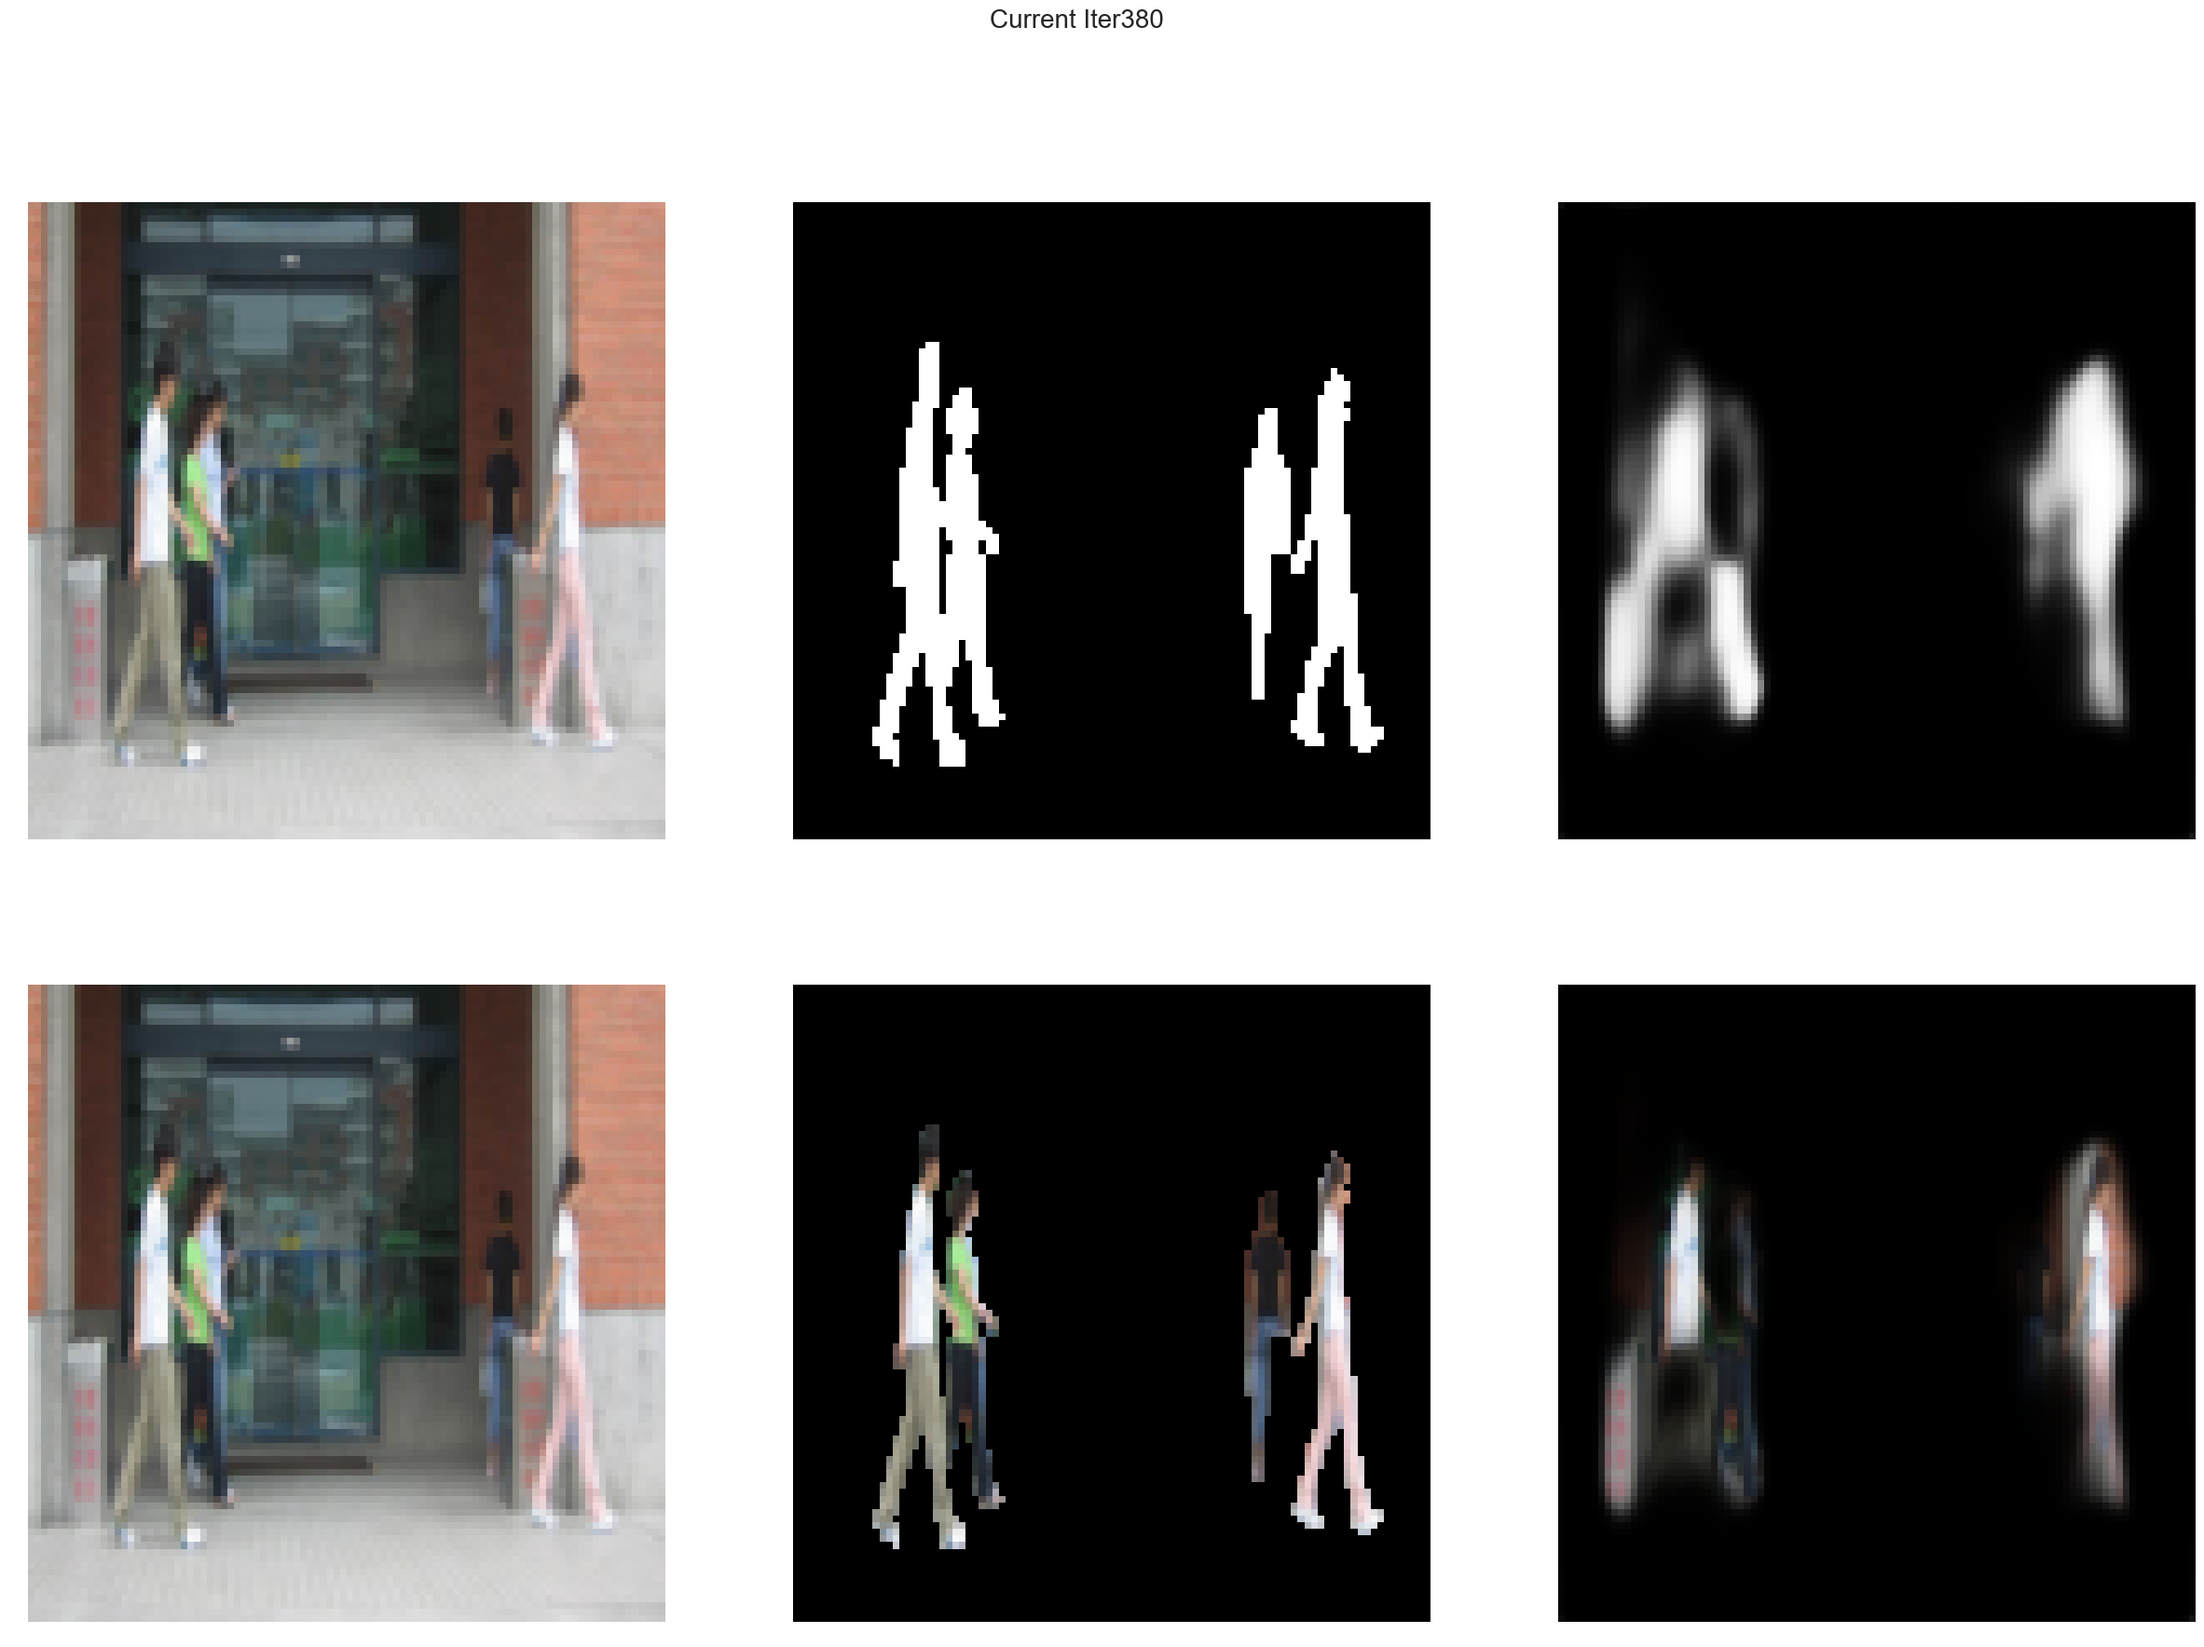
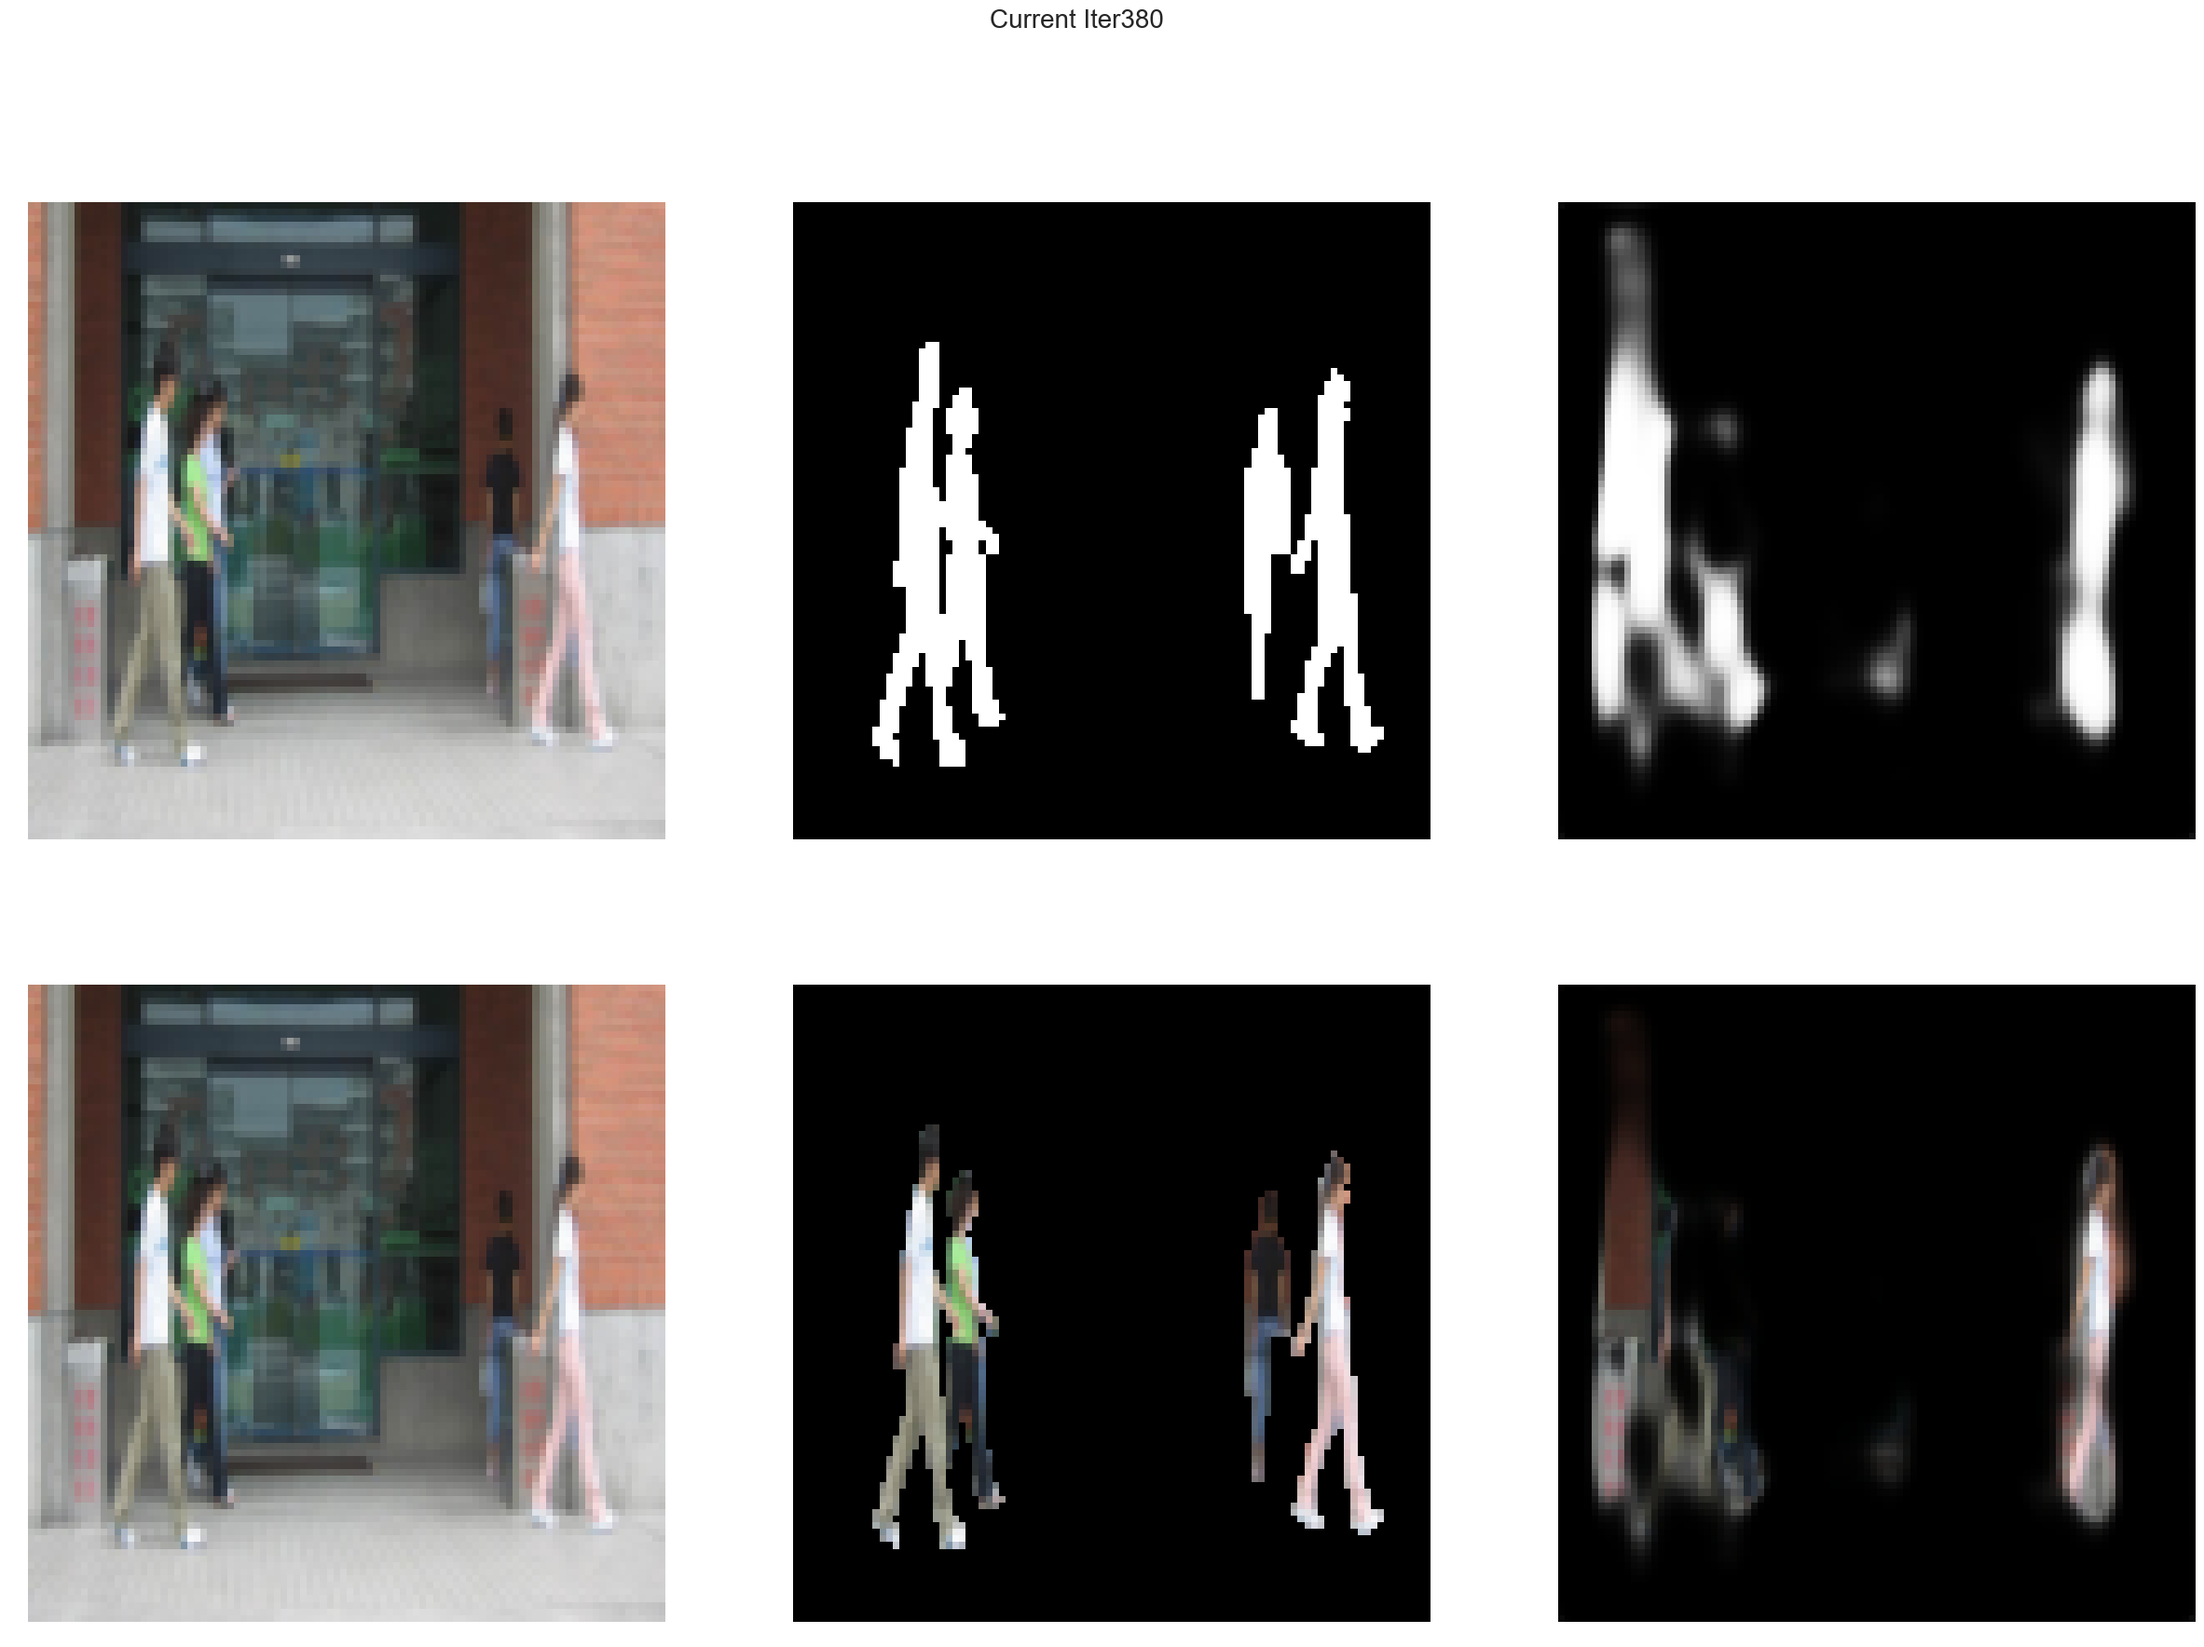
s

diff --git a/NeuralNetwork/Sparse_Auto/d_sparse_auto.py b/NeuralNetwork/Sparse_Auto/d_sparse_auto.py
@@ -258,7 +258,7 @@ class ICA_Layer():
 class Sparse_Filter_Layer():
     
     def __init__(self,outc,changec):
-        self.w = tf.Variable(tf.truncated_normal([outc,changec],stddev=0.05,seed=2,dtype=tf.float64))
+        self.w = tf.Variable(tf.random_normal([outc,changec],stddev=1.0,seed=2,dtype=tf.float64))
         self.epsilon = 1e-20
 
     def getw(self): return self.w
@@ -346,11 +346,11 @@ dl4 = CNN_Trans(3,6,16)
 fl4 = CNN(3,6,1,act=tf_sigmoid)
 
 # hyper
-num_epoch = 1201
+num_epoch = 1001 
 num_to_change = 300
 learning_rate = 0.0005
 batch_size = 5
-print_size = 10
+print_size = 50
 
 # graph
 x = tf.placeholder(shape=[batch_size,image_resize_px,image_resize_px,3],dtype=tf.float64)
@@ -358,24 +358,24 @@ y = tf.placeholder(shape=[batch_size,image_resize_px,image_resize_px,1],dtype=tf
 
 elayer1 = el1.feedforward(x)
 
-elayer2_input_weight = tf.Variable(tf.random_normal([],stddev=0.05,seed=2,dtype=tf.float64))
+elayer2_input_weight = tf.Variable(tf.random_uniform([],minval=0.0,maxval=1.0,seed=2,dtype=tf.float64))
 elayer2_input = tf.nn.max_pool(elayer1,strides=[1,2,2,1],ksize=[1,2,2,1],padding='VALID') * elayer2_input_weight +\
 tf.nn.avg_pool(elayer1,strides=[1,2,2,1],ksize=[1,2,2,1],padding='VALID') * (1.0-elayer2_input_weight)
 elayer2 = el2.feedforward(elayer2_input)
 
-elayer3_input_weight = tf.Variable(tf.random_normal([],stddev=0.05,seed=2,dtype=tf.float64))
-elayer3_input = tf.nn.avg_pool(elayer2,strides=[1,2,2,1],ksize=[1,2,2,1],padding='VALID') * elayer3_input_weight +\
-tf.nn.max_pool(elayer2,strides=[1,2,2,1],ksize=[1,2,2,1],padding='VALID') * (1.0-elayer3_input_weight)
+elayer3_input_weight = tf.Variable(tf.random_uniform([],minval=0.0,maxval=1.0,seed=2,dtype=tf.float64))
+elayer3_input = tf.nn.max_pool(elayer2,strides=[1,2,2,1],ksize=[1,2,2,1],padding='VALID') * elayer3_input_weight +\
+tf.nn.avg_pool(elayer2,strides=[1,2,2,1],ksize=[1,2,2,1],padding='VALID') * (1.0-elayer3_input_weight)
 elayer3 = el3.feedforward(elayer3_input)
 
-elayer4_input_weight = tf.Variable(tf.random_normal([],stddev=0.05,seed=2,dtype=tf.float64))
+elayer4_input_weight = tf.Variable(tf.random_uniform([],minval=0.0,maxval=1.0,seed=2,dtype=tf.float64))
 elayer4_input = tf.nn.max_pool(elayer3,strides=[1,2,2,1],ksize=[1,2,2,1],padding='VALID') * elayer4_input_weight +\
 tf.nn.avg_pool(elayer3,strides=[1,2,2,1],ksize=[1,2,2,1],padding='VALID') * (1.0-elayer4_input_weight)
 elayer4 = el4.feedforward(elayer4_input)
 
-sparse_input_weight = tf.Variable(tf.random_normal([],stddev=0.05,seed=2,dtype=tf.float64))
-sparse_input = tf.nn.avg_pool(elayer4,strides=[1,2,2,1],ksize=[1,2,2,1],padding='VALID') * sparse_input_weight +\
-tf.nn.max_pool(elayer4,strides=[1,2,2,1],ksize=[1,2,2,1],padding='VALID') * (1.0-sparse_input_weight)
+sparse_input_weight = tf.Variable(tf.random_uniform([],minval=0.0,maxval=1.0,seed=2,dtype=tf.float64))
+sparse_input = tf.nn.max_pool(elayer4,strides=[1,2,2,1],ksize=[1,2,2,1],padding='VALID') * sparse_input_weight +\
+tf.nn.avg_pool(elayer4,strides=[1,2,2,1],ksize=[1,2,2,1],padding='VALID') * (1.0-sparse_input_weight)
 sparse_layer_input = tf.reshape(sparse_input,[batch_size,-1])
 sparse_layer_value0,sparse_cost0 = sparse_layer.feedforward(sparse_layer_input)
 

diff --git a/NeuralNetwork/Sparse_Auto/a_pure_auto.py b/NeuralNetwork/Sparse_Auto/a_pure_auto.py
@@ -348,7 +348,7 @@ fl4 = CNN(3,6,1,act=tf_sigmoid)
 # hyper
 num_epoch = 1201
 num_to_change = 300
-learning_rate = 0.0001
+learning_rate = 0.0005
 batch_size = 5
 print_size = 10
 

diff --git a/NeuralNetwork/Sparse_Auto/b_l1_auto.py b/NeuralNetwork/Sparse_Auto/b_l1_auto.py
@@ -348,7 +348,7 @@ fl4 = CNN(3,6,1,act=tf_sigmoid)
 # hyper
 num_epoch = 1201
 num_to_change = 300
-learning_rate = 0.0001
+learning_rate = 0.0005
 batch_size = 5
 print_size = 10
 

diff --git a/NeuralNetwork/Sparse_Auto/c_l2_auto.py b/NeuralNetwork/Sparse_Auto/c_l2_auto.py
@@ -348,7 +348,7 @@ fl4 = CNN(3,6,1,act=tf_sigmoid)
 # hyper
 num_epoch = 1201
 num_to_change = 300
-learning_rate = 0.0001
+learning_rate = 0.0005
 batch_size = 5
 print_size = 10
 
